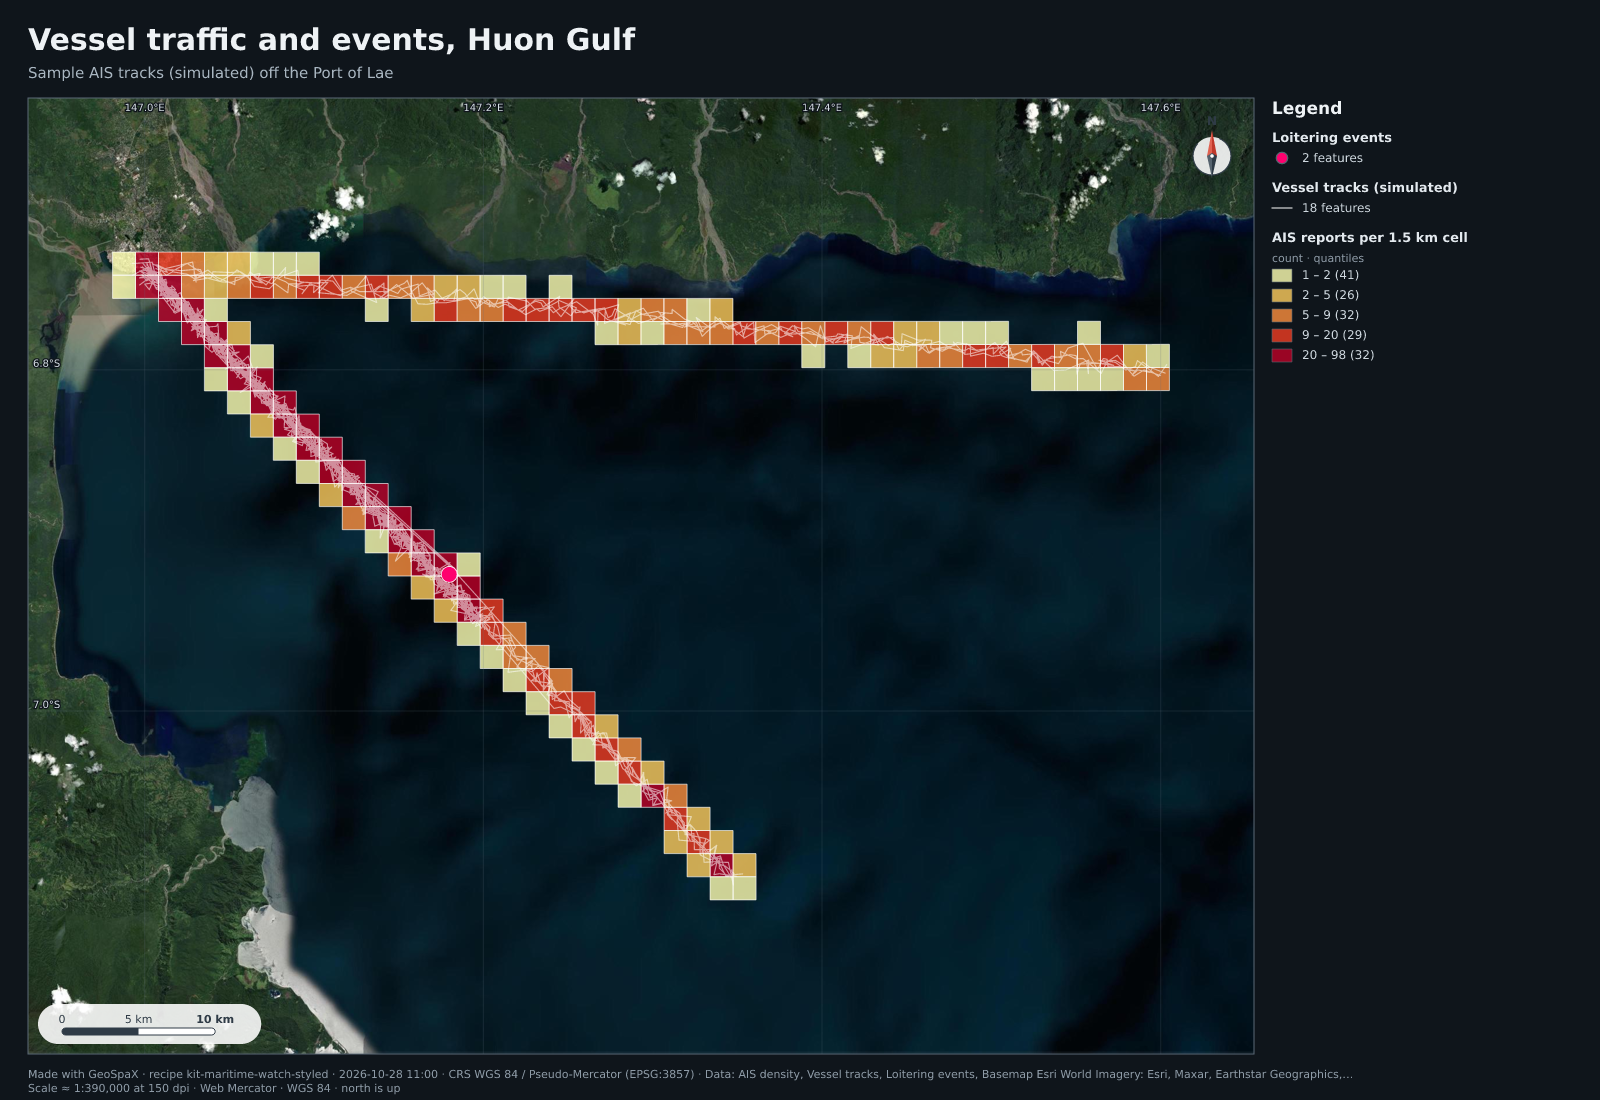
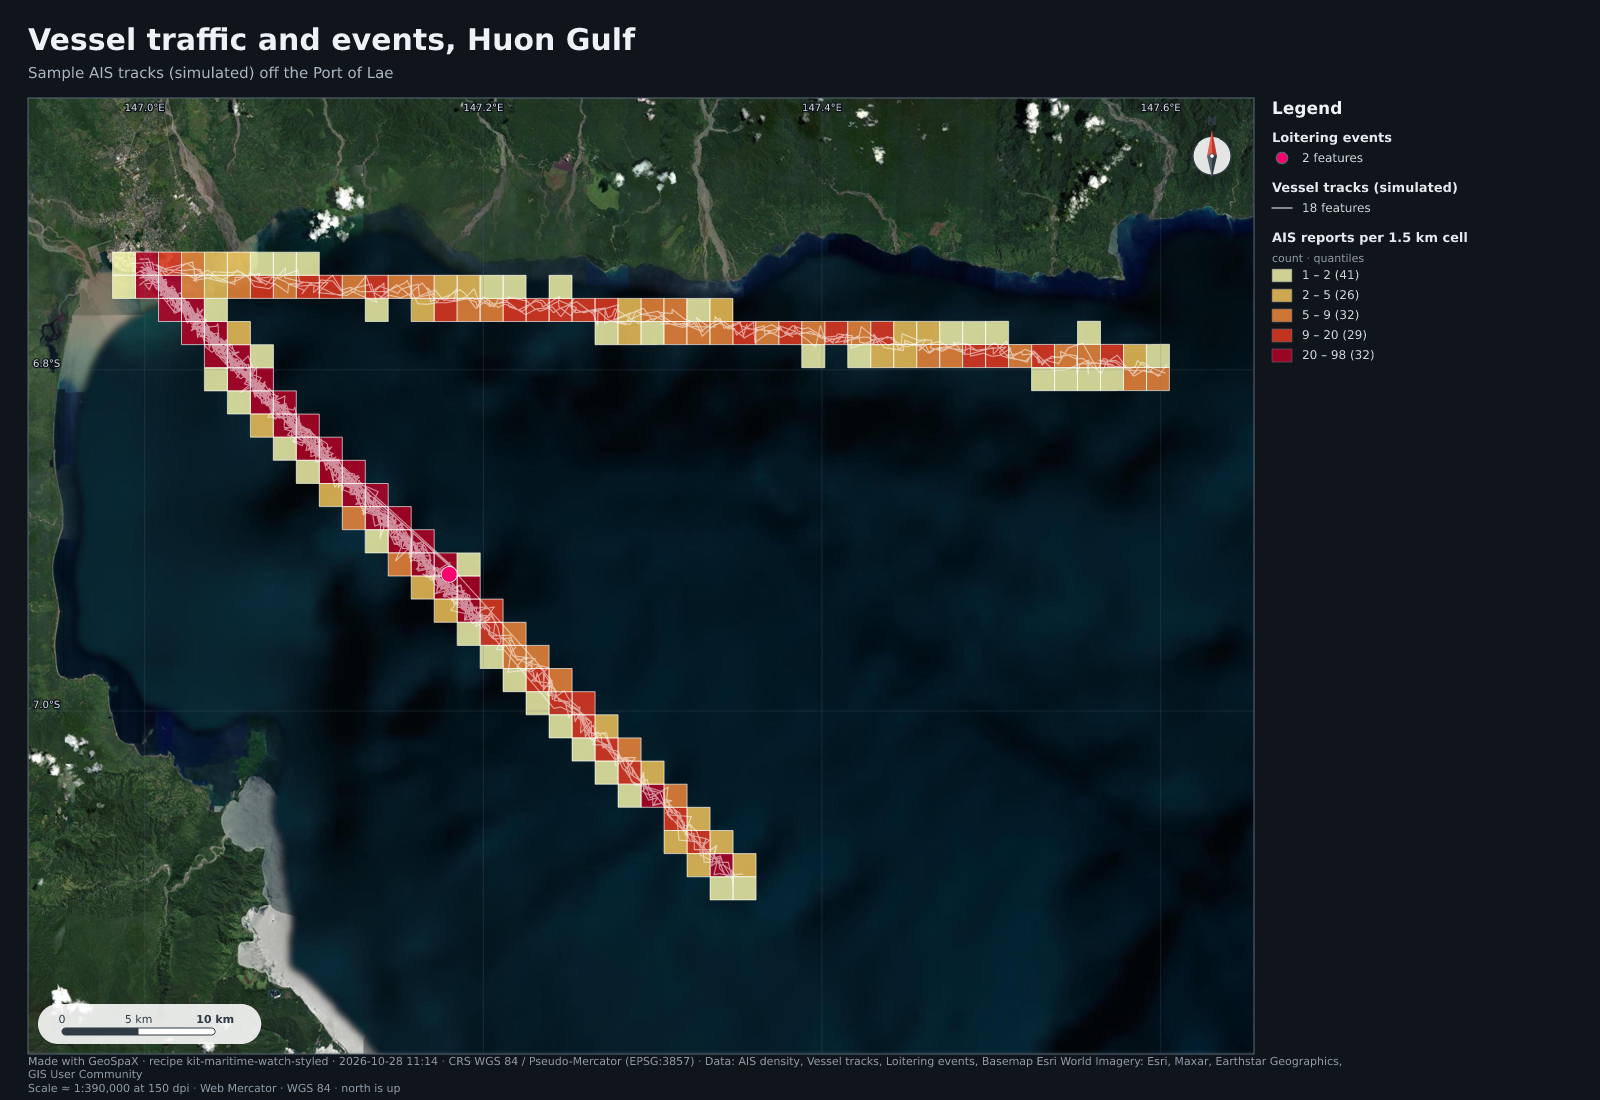
Map layout: wrapped credits, graduated units, exact extents below 400 m

Changed region(s): [[0.0, 0.9582, 0.8438, 0.9891]]

diff --git a/crates/engine/src/automation/cartography.rs b/crates/engine/src/automation/cartography.rs
@@ -278,9 +278,10 @@ impl Layout {
             return Layout { width, height, fx: MARGIN, fy: HEADER, fw, fh, s, cx: (x0 + x1) / 2.0, cy: (y0 + y1) / 2.0, proj };
         }
         let pad = if fit == Fit::Exact { 1.0 } else { 1.16 };
-        // at least ~400 m across, so a single photo still gets a sensible map
+        // at least ~400 m across, so a single photo still gets a sensible map (an exact extent is
+        // shown as asked, e.g. a survey plan at 1:1000)
         let lat_c = (extent[1] + extent[3]) / 2.0;
-        let min_span = 400.0 / (40_075_016.686 * lat_c.to_radians().cos().max(0.05));
+        let min_span = if fit == Fit::Exact { 0.0 } else { 400.0 } / (40_075_016.686 * lat_c.to_radians().cos().max(0.05));
         let (cx, cy) = ((x0 + x1) / 2.0, (y0 + y1) / 2.0);
         let (w, h) = ((x1 - x0).max(min_span) * pad, (y1 - y0).max(min_span) * pad);
         x0 = cx - w / 2.0;
@@ -888,10 +889,9 @@ pub fn render_svg(spec: &MapSpec, lay: &Layout) -> MapOut {
     let max_chars = ((w - 2.0 * MARGIN) / (11.0 * 0.6)) as usize;
     let _ = write!(
         svg,
-        "<text x=\"{MARGIN}\" y=\"{:.1}\" font-size=\"11\" fill=\"#6b7785\">{}</text>\
+        "{}\
 <text x=\"{MARGIN}\" y=\"{:.1}\" font-size=\"11\" fill=\"#6b7785\">Scale ≈ 1:{} at {DPI:.0} dpi · {} · WGS 84 · north is up</text></svg>",
-        h - 22.0,
-        esc(&truncate(&spec.credits, max_chars)),
+        credit_lines(&spec.credits, max_chars, h),
         h - 8.0,
         fmt_num(round_sig(denom, 2)),
         lay.proj.name()
@@ -1190,9 +1190,8 @@ pub fn render_panels(spec: &MapSpec, panels: &[Panel], w: f64, h: f64, own_legen
     let max_chars = ((w - 2.0 * MARGIN) / (11.0 * 0.6)) as usize;
     let _ = write!(
         svg,
-        "<text x=\"{MARGIN}\" y=\"{:.1}\" font-size=\"11\" fill=\"#6b7785\">{}</text><text x=\"{MARGIN}\" y=\"{:.1}\" font-size=\"11\" fill=\"#6b7785\">{} panels · each with its own scale bar · Web Mercator · WGS 84 · north is up</text></svg>",
-        h - 22.0,
-        esc(&truncate(&spec.credits, max_chars)),
+        "{}<text x=\"{MARGIN}\" y=\"{:.1}\" font-size=\"11\" fill=\"#6b7785\">{} panels · each with its own scale bar · Web Mercator · WGS 84 · north is up</text></svg>",
+        credit_lines(&spec.credits, max_chars, h),
         h - 8.0,
         panels.len()
     );
@@ -1640,6 +1639,33 @@ fn swatch(svg: &mut String, kind: GeomKind, x: f64, y: f64, color: &str, role: O
     }
 }
 
+/// A graduated class row: "lo – hi", with the optional `symbology.unit` after it ("0 – 1 km").
+pub fn grad_text(lo: f64, hi: f64, unit: &str) -> String {
+    let u = unit.trim();
+    if u.is_empty() { format!("{} – {}", fmt_num(lo), fmt_num(hi)) } else { format!("{} – {} {u}", fmt_num(lo), fmt_num(hi)) }
+}
+
+/// Footer credits as SVG text: one line when they fit, else wrapped at a word to two lines (the
+/// second trimmed), sitting above the scale statement inside the footer band.
+pub fn credit_lines(s: &str, n: usize, h: f64) -> String {
+    let line = |y: f64, txt: &str| format!("<text x=\"{MARGIN}\" y=\"{y:.1}\" font-size=\"11\" fill=\"#6b7785\">{}</text>", esc(txt));
+    let (a, b) = wrap2(s, n);
+    match b {
+        None => line(h - 22.0, &a),
+        Some(b) => format!("{}{}", line(h - 35.0, &a), line(h - 22.0, &truncate(&b, n))),
+    }
+}
+
+/// Split `s` into a first line of at most `n` chars, broken at the last space, and the rest.
+pub fn wrap2(s: &str, n: usize) -> (String, Option<String>) {
+    if s.chars().count() <= n || n < 2 {
+        return (s.to_string(), None);
+    }
+    let head: String = s.chars().take(n).collect();
+    let cut = head.rfind(' ').filter(|&i| i > 0).unwrap_or(head.len());
+    (s[..cut].trim_end().to_string(), Some(s[cut..].trim_start().to_string()))
+}
+
 fn truncate(s: &str, n: usize) -> String {
     if s.chars().count() <= n { s.to_string() } else { format!("{}…", s.chars().take(n - 1).collect::<String>()) }
 }
@@ -1767,7 +1793,7 @@ fn legend(svg: &mut String, layers: &[&MapLayer], rasters: &[MapRaster], x: f64,
                     swatch(svg, l.kind, x, y, colors.get(i).copied().unwrap_or(NULL_COLOR), role, op, &l.style);
                     let count = counts.get(i).map(|c| format!("  ({c})")).unwrap_or_default();
                     let note = labels.get(i).map(|n| format!(" · {n}")).unwrap_or_default();
-                    text(svg, y, &format!("{} – {}{note}{count}", fmt_num(lo), fmt_num(*b)));
+                    text(svg, y, &format!("{}{note}{count}", grad_text(lo, *b, txt(&sym, "unit", ""))));
                     lo = *b;
                     y += row;
                 }
@@ -2030,6 +2056,34 @@ mod tests {
 
 #[cfg(test)]
 mod theme_tests {
+    #[test]
+    fn exact_extent_skips_the_minimum_span() {
+        use super::{Fit, Layout, Proj};
+        let e = [147.00115, -6.7281, 147.00305, -6.7267];
+        let exact = Layout::fit_in(e, 1600.0, 1100.0, Fit::Exact, true, Proj::Mercator).scale_denominator();
+        let margin = Layout::fit_in(e, 1600.0, 1100.0, Fit::Margin, true, Proj::Mercator).scale_denominator();
+        assert!(exact < margin / 1.5, "exact {exact} margin {margin}");
+    }
+
+    #[test]
+    fn graduated_rows_carry_units() {
+        assert_eq!(super::grad_text(0.0, 1.0, "km"), "0 – 1 km");
+        assert_eq!(super::grad_text(2.0, 5.0, ""), "2 – 5");
+    }
+
+    #[test]
+    fn credits_wrap_to_two_lines() {
+        use super::{credit_lines, wrap2};
+        assert_eq!(wrap2("short", 20), ("short".to_string(), None));
+        let (a, b) = wrap2("Data: OSM contributors · Basemap Esri", 20);
+        assert!(a.chars().count() <= 20 && !a.ends_with(' '));
+        assert_eq!(format!("{a} {}", b.clone().unwrap()), "Data: OSM contributors · Basemap Esri");
+        let svg = credit_lines("Data: OSM contributors · Basemap Esri", 30, 500.0);
+        assert_eq!(svg.matches("<text").count(), 2);
+        assert!(svg.contains("y=\"465.0\"") && svg.contains("y=\"478.0\""));
+        assert!(!svg.contains('…'));
+    }
+
     use super::*;
     use serde_json::json;
 

diff --git a/scripts/make-industry-maps.py b/scripts/make-industry-maps.py
@@ -103,9 +103,9 @@ YN = lambda yes, no, ty, tn: [(1, yes, ty), (0, no, tn)]
 # kit: (layers bottom to top as (id fragment, style or None to keep), extra export.map params)
 STYLE = {
     "survey-plan": ([("grid-epsg", S("#5b6976", 0.7, width=0.6, labels={"field": "label", "size": 9})),
-                     ("lot-bearings", S("#ffd166", 1, width=2.6, labels={"field": "bearing", "field2": "distance_m", "suffix2": " m", "size": 10, "font": "bold", "overlap": True, "placement": "point"})),
+                     ("lot-bearings", S("#ffd166", 1, width=2.6, labels={"field": "bearing", "field2": "distance_m", "suffix2": " m", "size": 11, "font": "bold", "overlap": True, "placement": "point"})),
                      ("traverse-stations", S("#ffffff", 1, size=6, labels={"field": "station", "size": 10}))],
-                    {"extent": [147.0002, -6.72805, 147.0041, -6.72625], "exact": True, "rasters": []}),
+                    {"extent": [147.00095, -6.72820, 147.00330, -6.72650], "exact": True, "rasters": []}),
     "power-corridor": ([("corridor-zones", U("zone", [("consultation", "#4cc9f0", "Consultation, 100 m"), ("clearance", "#ffb703", "Vegetation clearance, 50 m"), ("easement", "#e63946", "Easement, 20 m")], "", 0.5)),
                         ("@power-lines.geojson", S("#ffffff", 1, width=1.8)),
                         ("spans", U("too_long", YN("#ff5d8f", "#ffffff", "Span over limit", "Span within limit"), "", 1, width=1.6)),
@@ -132,7 +132,7 @@ STYLE = {
     "urban-planning": ([("zoning-summary", U("zone", [("residential", "#f4a261", "Residential"), ("commercial", "#4361ee", "Commercial"), ("retail", "#7209b7", "Retail"), ("industrial", "#8d99ae", "Industrial"), ("recreation ground", "#52b788", "Recreation"), ("religious", "#e9c46a", "Religious"), ("cemetery", "#6c757d", "Cemetery")], "", 0.6)),
                         ("green-space", U("within_walk", YN("#80ed99", "#ef476f", "Home within 400 m of a park", "Home beyond 400 m"), "", 1, size=4))], {}),
     "rural-access": ([("service-access", {"visible": True, "opacity": 1, "point": {"size": 9},
-                      "symbology": {"kind": "graduated", "field": "nearest_km", "caption": "km, straight line to the nearest clinic or school",
+                      "symbology": {"kind": "graduated", "field": "nearest_km", "caption": "Straight line to the nearest clinic or school", "unit": "km",
                                     "min": 0, "breaks": [1, 2, 3, 5, 10], "colors": ["#1a9850", "#91cf60", "#fee08b", "#fc8d59", "#d73027"]},
                       "labels": {"on": False}})], {"rasters": []}),
     "mine-volumes": ([("tenure-check", S("#ffffff", 1, outline={"color": "#ffffff", "width": 2}, fill=False))], {"rasters": ["elevation-change"]}),
